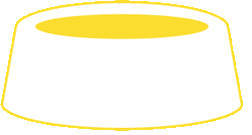
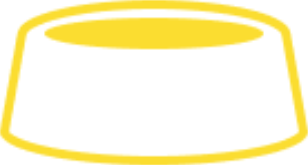
디바이더 형태의 탭 추가

Changed region(s): [[0.0, 0.0, 1.0, 1.0]]

diff --git a/음수량 각종 선택지.py b/음수량 각종 선택지.py
@@ -1,0 +1,358 @@
+import flet as ft
+
+def custom_appbar(title="중앙 텍스트"):
+    right_icons = ft.Row(
+        spacing=8,
+        controls=[
+            ft.Icon(ft.Icons.SEARCH, color=ft.Colors.BLACK),
+            ft.Icon(ft.Icons.NOTIFICATIONS, color=ft.Colors.BLACK),
+        ],
+    )
+
+    return ft.Container(
+        height=60,
+        padding=ft.padding.symmetric(horizontal=16),
+        content=ft.Row(
+            alignment=ft.MainAxisAlignment.SPACE_BETWEEN,
+            vertical_alignment=ft.CrossAxisAlignment.CENTER,
+            controls=[
+                ft.Container(width=56),
+                ft.Text(
+                    title,
+                    size=20,
+                    weight=ft.FontWeight.W_500,
+                    color=ft.Colors.BLACK,
+                    text_align=ft.TextAlign.CENTER,
+                ),
+                ft.Container(
+                    width=56,
+                    content=right_icons,
+                    alignment=ft.Alignment(1, 0),
+                ),
+            ],
+        ),
+    )
+
+def nav_item(icon, label, selected=False, on_click=None):
+    return ft.Container(
+        expand=True,
+        height=70,
+        on_click=on_click,
+        alignment=ft.Alignment(0, 0),
+        content=ft.Column(
+            alignment=ft.MainAxisAlignment.CENTER,
+            horizontal_alignment=ft.CrossAxisAlignment.CENTER,
+            spacing=4,
+            controls=[
+                ft.Icon(icon, color=ft.Colors.BLACK, size=24),
+                ft.Text(
+                    label,
+                    color=ft.Colors.BLACK,
+                    size=12,
+                    weight=ft.FontWeight.W_500,
+                ),
+            ],
+        ),
+    )
+
+def custom_bottom_appbar(selected_index=0, on_tab_change=None):
+    items = [
+        (ft.Icons.HOME, "Home"),
+        (ft.Icons.EDIT_NOTE, "Log"),
+        (ft.Icons.MENU_BOOK, "Contents"),
+        (ft.Icons.PERSON, "MyPage"),
+    ]
+
+    return ft.BottomAppBar(
+        bgcolor=ft.Colors.YELLOW,
+        shape=ft.CircularRectangleNotchShape(),
+        content=ft.Row(
+            spacing=8,
+            alignment=ft.MainAxisAlignment.SPACE_AROUND,
+            controls=[
+                nav_item(
+                    icon,
+                    label,
+                    selected=(i == selected_index),
+                    on_click=(lambda e, idx=i: on_tab_change(idx) if on_tab_change else None),
+                )
+                for i, (icon, label) in enumerate(items)
+            ],
+        ),
+    )
+
+def banner(
+    text="",
+    image_src=None,
+    bgcolor=ft.Colors.WHITE,
+    text_color=ft.Colors.BLACK,
+    arrow_bgcolor=ft.Colors.WHITE,
+    on_click=None,
+):
+    left_controls = []
+
+    if image_src:
+        left_controls.append(
+            ft.Container(
+                width=50,
+                height=50,
+                border_radius=25,
+                clip_behavior=ft.ClipBehavior.HARD_EDGE,
+                content=ft.Image(
+                    src=image_src,
+                    width=50,
+                    height=50,
+                    fit=ft.BoxFit.COVER,
+                ),
+            )
+        )
+
+    left_controls.append(
+        ft.Text(
+            text,
+            size=18,
+            weight=ft.FontWeight.W_600,
+            color=text_color,
+        )
+    )
+    
+    # ✅ 여기 넣는다 (핵심)
+    arrow_bg = "#F4D52A" if bgcolor == ft.Colors.WHITE else ft.Colors.WHITE
+
+
+    return ft.Container(
+        width=350,
+        height=72,
+        bgcolor=bgcolor,
+        border=ft.border.all(1, ft.Colors.GREY_300),
+        border_radius=16,
+        padding=ft.Padding(left=14, top=0, right=14, bottom=0),
+        on_click=on_click,
+        content=ft.Row(
+            alignment=ft.MainAxisAlignment.SPACE_BETWEEN,
+            vertical_alignment=ft.CrossAxisAlignment.CENTER,
+            controls=[
+                ft.Row(
+                    spacing=12,
+                    vertical_alignment=ft.CrossAxisAlignment.CENTER,
+                    controls=left_controls,
+                ),
+                ft.Container(
+                    width=40,
+                    height=40,
+                    bgcolor=arrow_bg,
+                    border_radius=20,
+                    alignment=ft.Alignment(0, 0),
+                    content=ft.Icon(
+                        ft.Icons.ARROW_FORWARD,
+                        color=ft.Colors.BLACK,
+                    ),
+                ),
+            ],
+        ),
+    )
+
+def white_long_box2(
+    text,
+    bgcolor=ft.Colors.WHITE,
+    text_color=ft.Colors.BLACK,
+    right_icon=ft.Icons.ADD,
+    on_click=None
+):
+    return ft.Container(
+        width=350,
+        height=70,
+        bgcolor=bgcolor,
+        border=None,
+        border_radius=16,
+        padding=ft.Padding.symmetric(horizontal=16),
+        on_click=on_click,
+        content=ft.Row(
+            alignment=ft.MainAxisAlignment.SPACE_BETWEEN,
+            vertical_alignment=ft.CrossAxisAlignment.CENTER,
+            controls=[
+                ft.Text(
+                    text,
+                    size=14,
+                    weight=ft.FontWeight.W_500,
+                    color=text_color,
+                ),
+                ft.Icon(
+                    right_icon,
+                    color=text_color,
+                    size=22,
+                ),
+            ],
+        ),
+    )
+
+def main(page: ft.Page):
+    page.padding = 0
+    page.spacing = 0
+    page.bgcolor = ft.Colors.WHITE
+    page.appbar = None
+
+    def change_tab(index):
+        print("선택된 하단 탭:", index)
+
+    # ✅ 상단 탭 상태값
+    selected_top_tab = {"index": 0}
+
+    # ✅ 탭 아래에 바뀔 내용
+    tab_content = ft.Text(
+        "전체 탭 내용",
+        size=18,
+        color=ft.Colors.BLACK,
+        weight=ft.FontWeight.W_500,
+    )
+
+    # ✅ 상단 탭 UI를 다시 그리는 함수
+    def build_top_tabs():
+        labels = ["전체", "급여량", "음수량", "활동량"]
+        tab_controls = []
+
+        for i, label in enumerate(labels):
+            is_selected = selected_top_tab["index"] == i
+
+            tab_controls.append(
+                ft.Container(
+                    expand=True,
+                    height=50,
+                    on_click=lambda e, idx=i: change_top_tab(idx),
+                    content=ft.Column(
+                        spacing=6,
+                        alignment=ft.MainAxisAlignment.END,
+                        horizontal_alignment=ft.CrossAxisAlignment.CENTER,
+                        controls=[
+                            ft.Text(
+                                label,
+                                size=16,
+                                color=ft.Colors.BLACK if is_selected else ft.Colors.GREY,
+                                weight=ft.FontWeight.W_700 if is_selected else ft.FontWeight.W_500,
+                            ),
+                            ft.Container(
+                                height=3,
+                                width=60,
+                                bgcolor=ft.Colors.BLACK if is_selected else ft.Colors.TRANSPARENT,
+                                border_radius=10,
+                            ),
+                        ],
+                    ),
+                )
+            )
+
+        return ft.Container(
+            width=350,
+            content=ft.Row(
+                alignment=ft.MainAxisAlignment.SPACE_BETWEEN,
+                controls=tab_controls,
+            ),
+        )
+
+    # ✅ 처음에 탭 UI 만들어 둘 자리
+    top_tabs_area = ft.Container()
+
+    # ✅ 탭 클릭 시 실행
+    def change_top_tab(index):
+        selected_top_tab["index"] = index
+
+        if index == 0:
+            tab_content.value = "전체 탭 내용"
+        elif index == 1:
+            tab_content.value = "급여량 탭 내용"
+        elif index == 2:
+            tab_content.value = "음수량 탭 내용"
+        elif index == 3:
+            tab_content.value = "활동량 탭 내용"
+
+        # ✅ 탭 UI 다시 교체
+        top_tabs_area.content = build_top_tabs()
+        page.update()
+
+    pagelet = ft.Pagelet(
+        expand=True,
+        bgcolor=ft.Colors.YELLOW,
+        content=ft.Container(),
+    )
+
+    pagelet.floating_action_button = ft.FloatingActionButton(
+        content=ft.Container(
+            width=60,
+            height=60,
+            alignment=ft.Alignment(0, 0),
+            content=ft.Image(
+                src="bowlradius.png",
+                fit=ft.BoxFit.CONTAIN,
+            ),
+        ),
+        bgcolor=ft.Colors.WHITE,
+        shape=ft.CircleBorder(),
+        elevation=0,
+        on_click=lambda e: print("가운데 버튼 클릭"),
+    )
+
+    pagelet.floating_action_button_location = ft.FloatingActionButtonLocation.CENTER_DOCKED
+    pagelet.bottom_appbar = custom_bottom_appbar(
+        selected_index=0,
+        on_tab_change=change_tab,
+    )
+
+    # ✅ 처음 탭 UI 넣기
+    top_tabs_area.content = build_top_tabs()
+
+    pagelet.content = ft.Container(
+        expand=True,
+        gradient=ft.LinearGradient(
+            begin=ft.Alignment(0, 1),
+            end=ft.Alignment(0, -1),
+            colors=[
+                ft.Colors.WHITE,
+                ft.Colors.WHITE,
+                ft.Colors.YELLOW,
+            ],
+        ),
+        content=ft.SafeArea(
+            expand=True,
+            content=ft.Column(
+                expand=True,
+                horizontal_alignment=ft.CrossAxisAlignment.CENTER,
+                spacing=0,
+                controls=[
+                    custom_appbar("2026.03.19"),
+                    white_long_box2("내 정보" , right_icon=ft.Icons.ADD),
+                    # ✅ 여기 상단 탭 들어감
+                    top_tabs_area,
+
+                    # ✅ 전체 가로 회색 선
+                    ft.Container(
+                        width=350,
+                        content=ft.Divider(
+                            thickness=1,
+                            color=ft.Colors.GREY_300,
+                        ),
+                    ),
+
+                    ft.Container(height=30),
+
+                    # ✅ 탭별 내용 표시 영역
+                    tab_content,
+                ],
+            ),
+        ),
+    )
+
+    page.add(pagelet)
+
+if __name__ == "__main__":
+    import webbrowser
+    import os
+
+    if os.getenv("FLET_NO_BROWSER"):
+        webbrowser.open = lambda *args, **kwargs: None
+
+    ft.run(
+        main,
+        assets_dir="assets",
+        view=ft.AppView.WEB_BROWSER,
+        port=34636,
+    )
